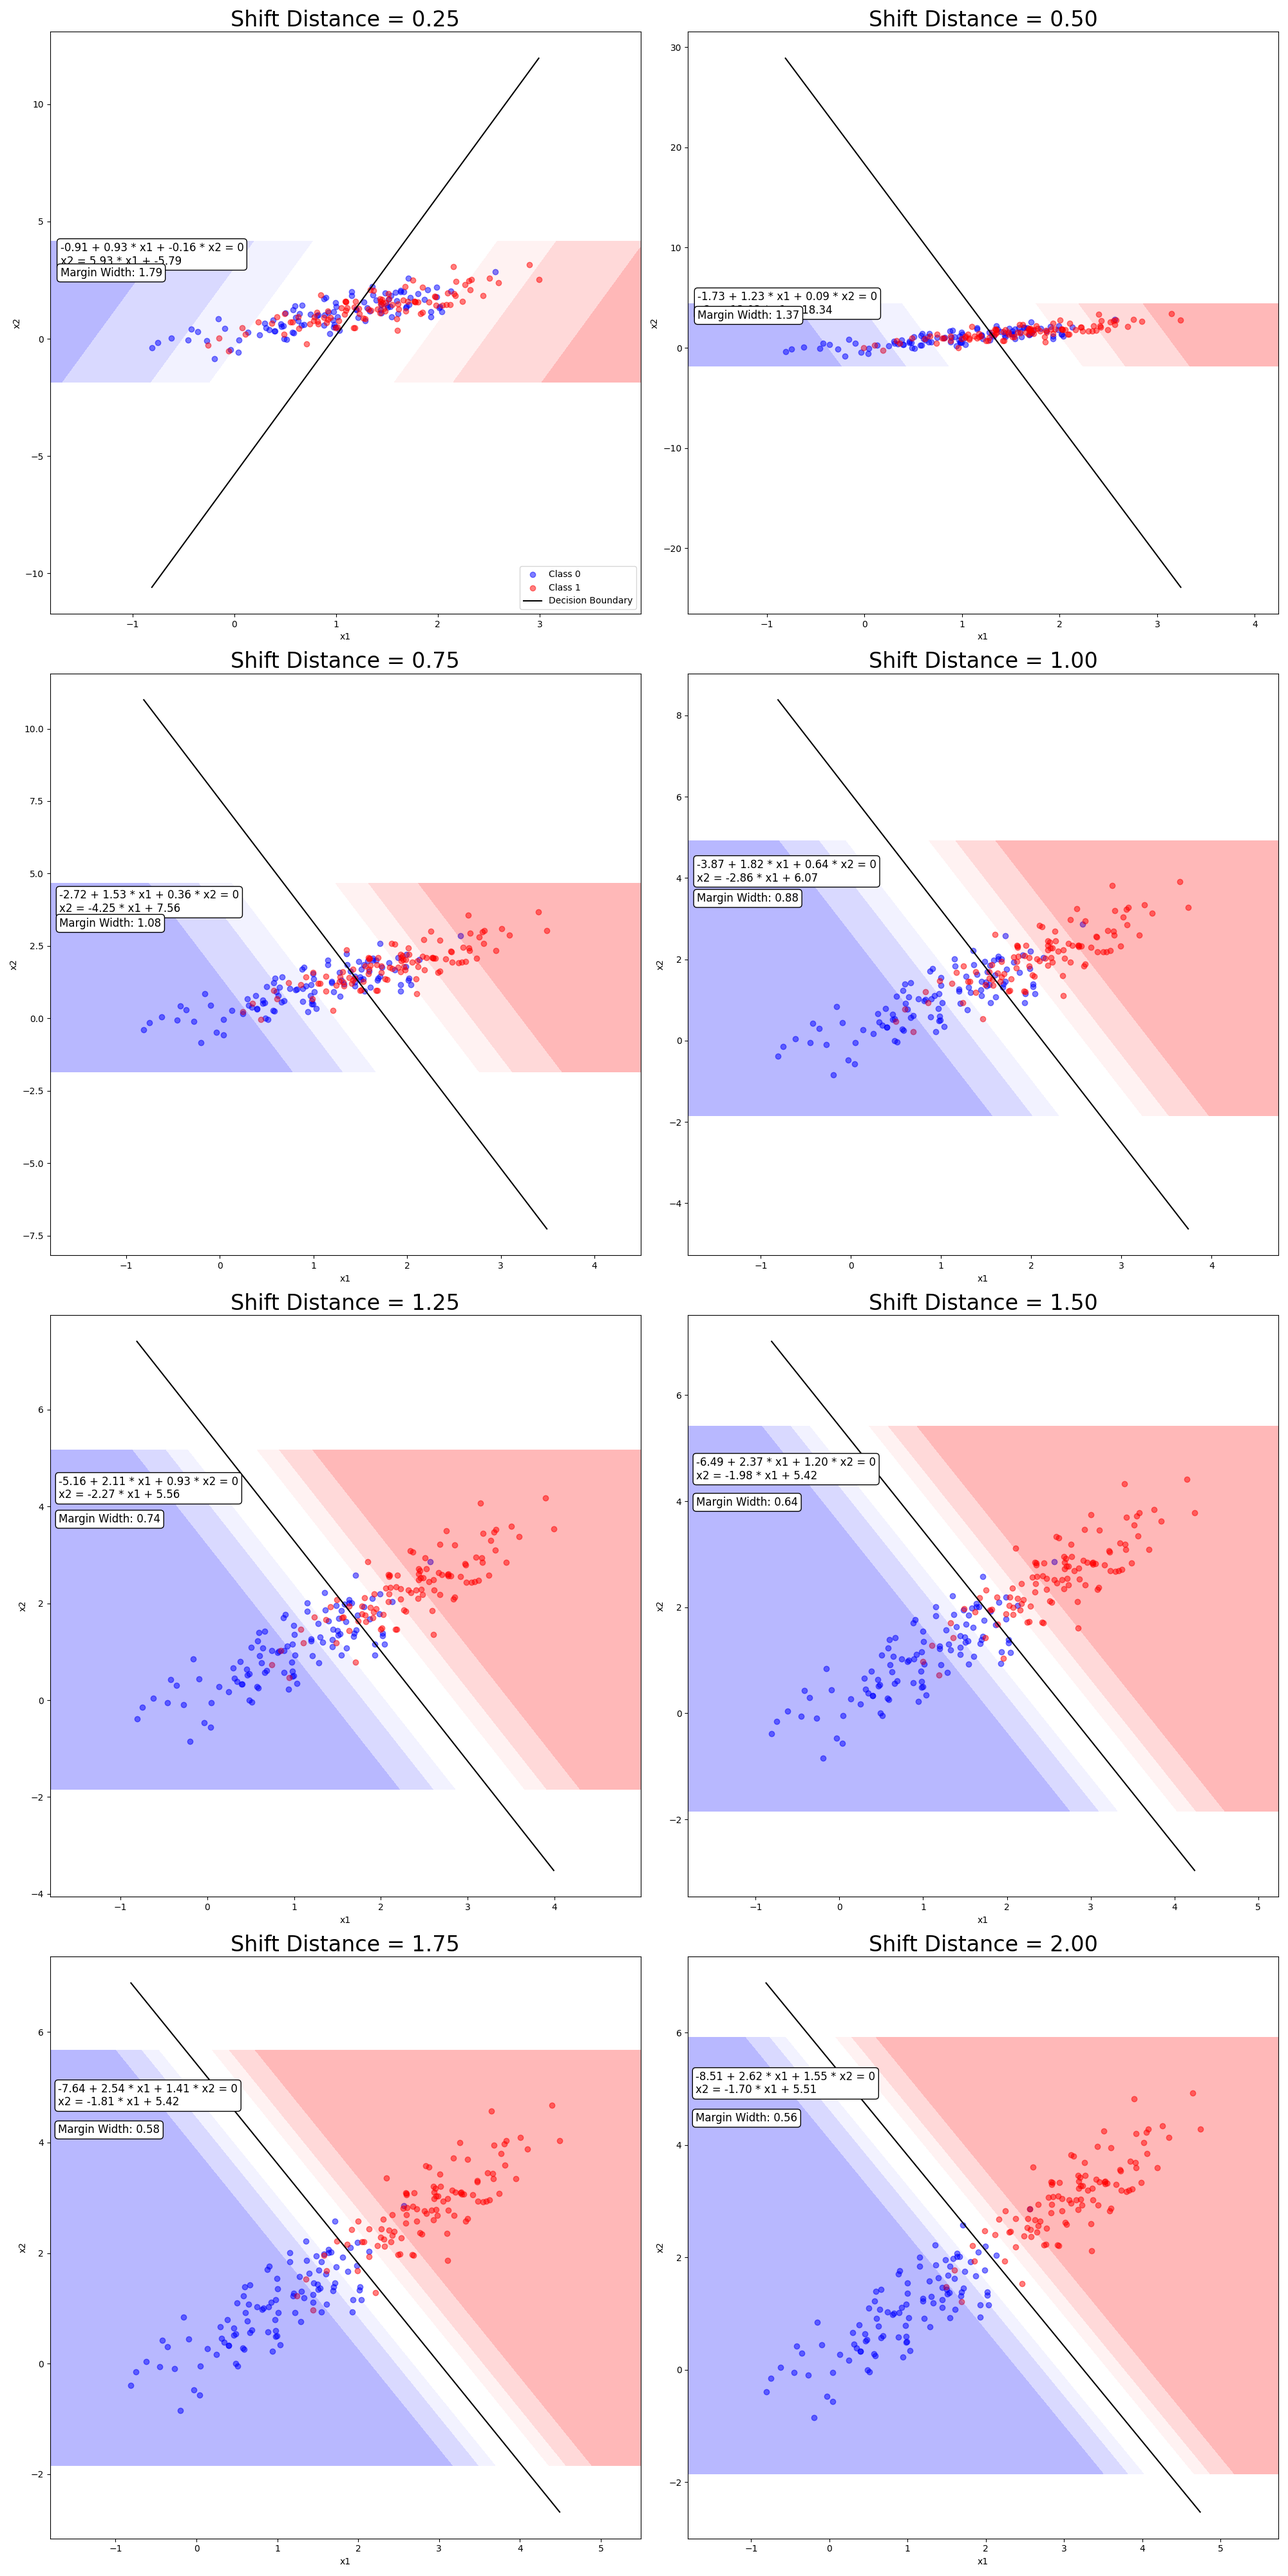
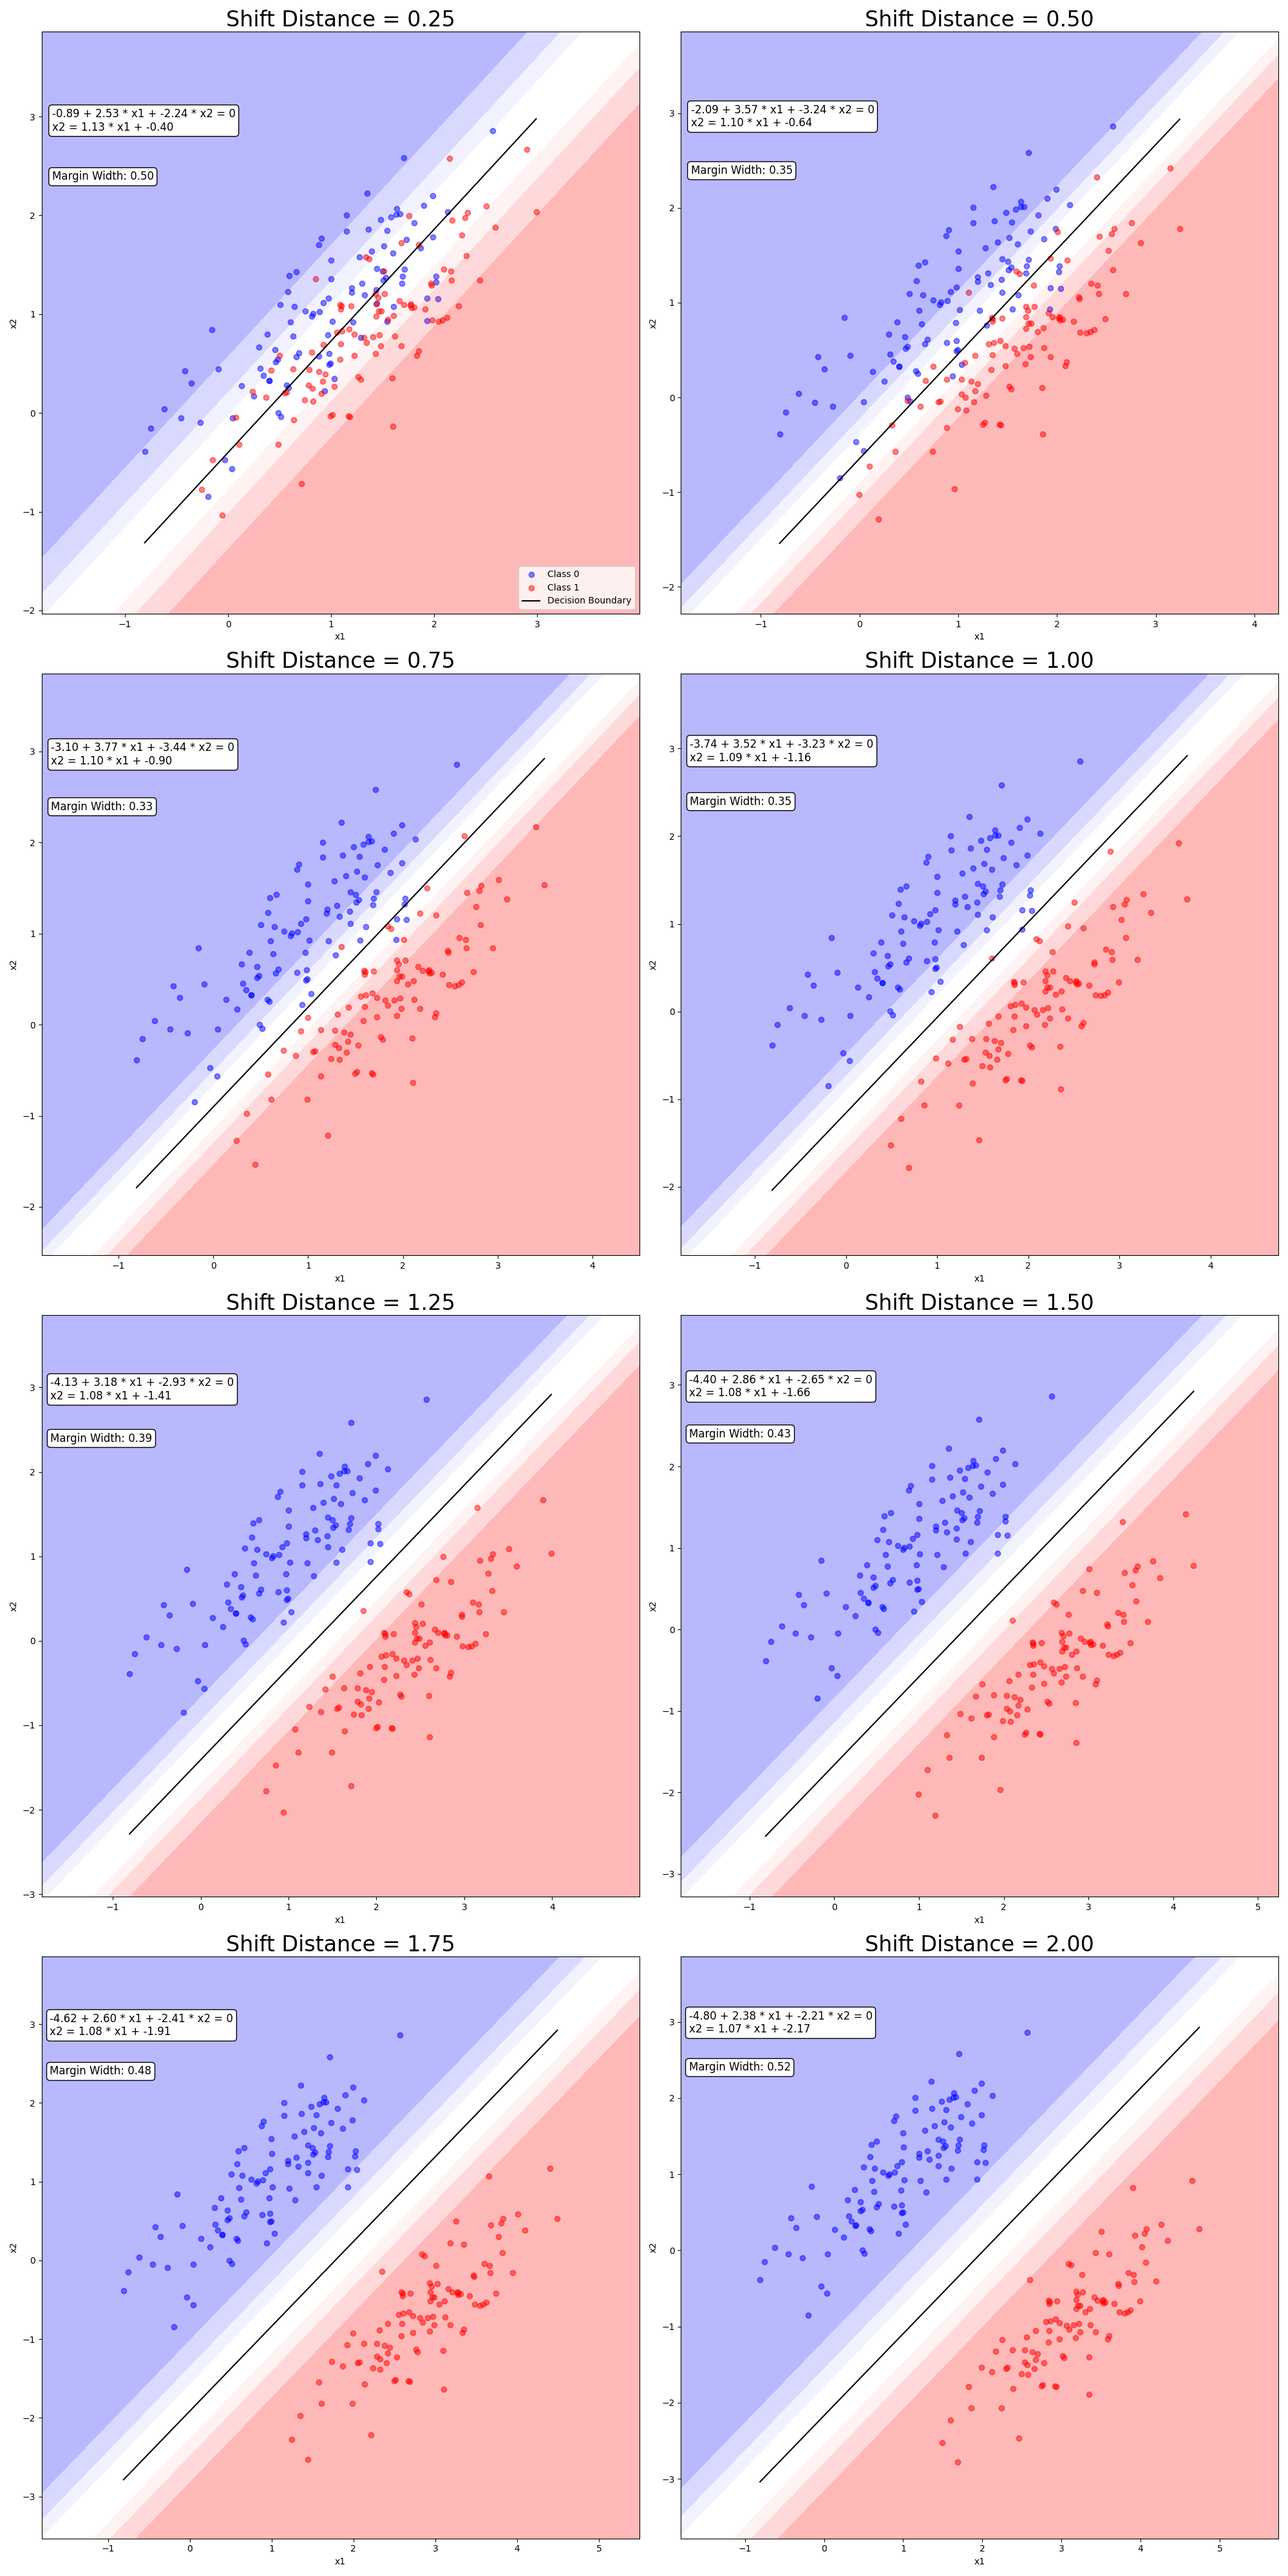
made y = x into y = -x

diff --git a/logistic_regression.py b/logistic_regression.py
@@ -18,8 +18,8 @@ def generate_ellipsoid_clusters(distance, n_samples=100, cluster_std=0.5):
     X1 = np.random.multivariate_normal(mean=[1, 1], cov=covariance_matrix, size=n_samples)
     y1 = np.zeros(n_samples)
 
-    # Generate the second cluster (class 1) and shift by the distance
-    X2 = np.random.multivariate_normal(mean=[1 + distance, 1 + distance], cov=covariance_matrix, size=n_samples)
+    # Generate the second cluster (class 1) and shift along y = -x
+    X2 = np.random.multivariate_normal(mean=[1 + distance, 1 - distance], cov=covariance_matrix, size=n_samples)
     y2 = np.ones(n_samples)
 
     # Combine the clusters into one dataset
@@ -38,7 +38,7 @@ def fit_logistic_regression(X, y):
 def do_experiments(start, end, step_num):
     # Set up experiment parameters
     shift_distances = np.linspace(start, end, step_num)  # Range of shift distances
-    beta0_list, beta1_list, beta2_list, slope_list, intercept_list, loss_list, margin_widths = [], [], [], [], [], [], []
+    beta0_list, beta1_list, beta2_list, slope_list, intercept_list, loss_list, margin_widths, intercept_ratios = [], [], [], [], [], [], [], []
     sample_data = {}  # Store sample datasets and models for visualization
 
     n_samples = 8
@@ -69,6 +69,7 @@ def do_experiments(start, end, step_num):
         slope_list.append(slope)
         intercept_list.append(intercept)
         loss_list.append(logistic_loss)
+        intercept_ratios.append(beta0 / beta2)  # Compute Beta0 / Beta2 (intercept ratio)
 
         # Plot the dataset
         plt.subplot(n_rows, n_cols, i)
@@ -151,15 +152,22 @@ def do_experiments(start, end, step_num):
     plt.xlabel("Shift Distance")
     plt.ylabel("Slope")
 
-    # Plot logistic loss
+    # Plot beta0 / beta2 (Intercept Ratio)
     plt.subplot(3, 3, 5)
+    plt.plot(shift_distances, intercept_ratios, marker="o", label="Intercept Ratio (Beta0 / Beta2)")
+    plt.title("Shift Distance vs Beta0 / Beta2 (Intercept Ratio)")
+    plt.xlabel("Shift Distance")
+    plt.ylabel("Beta0 / Beta2")
+
+    # Plot logistic loss
+    plt.subplot(3, 3, 6)
     plt.plot(shift_distances, loss_list, marker="o", label="Logistic Loss")
     plt.title("Shift Distance vs Logistic Loss")
     plt.xlabel("Shift Distance")
     plt.ylabel("Logistic Loss")
 
     # Plot margin width
-    plt.subplot(3, 3, 6)
+    plt.subplot(3, 3, 7)
     plt.plot(shift_distances, margin_widths, marker="o", label="Margin Width")
     plt.title("Shift Distance vs Margin Width")
     plt.xlabel("Shift Distance")
